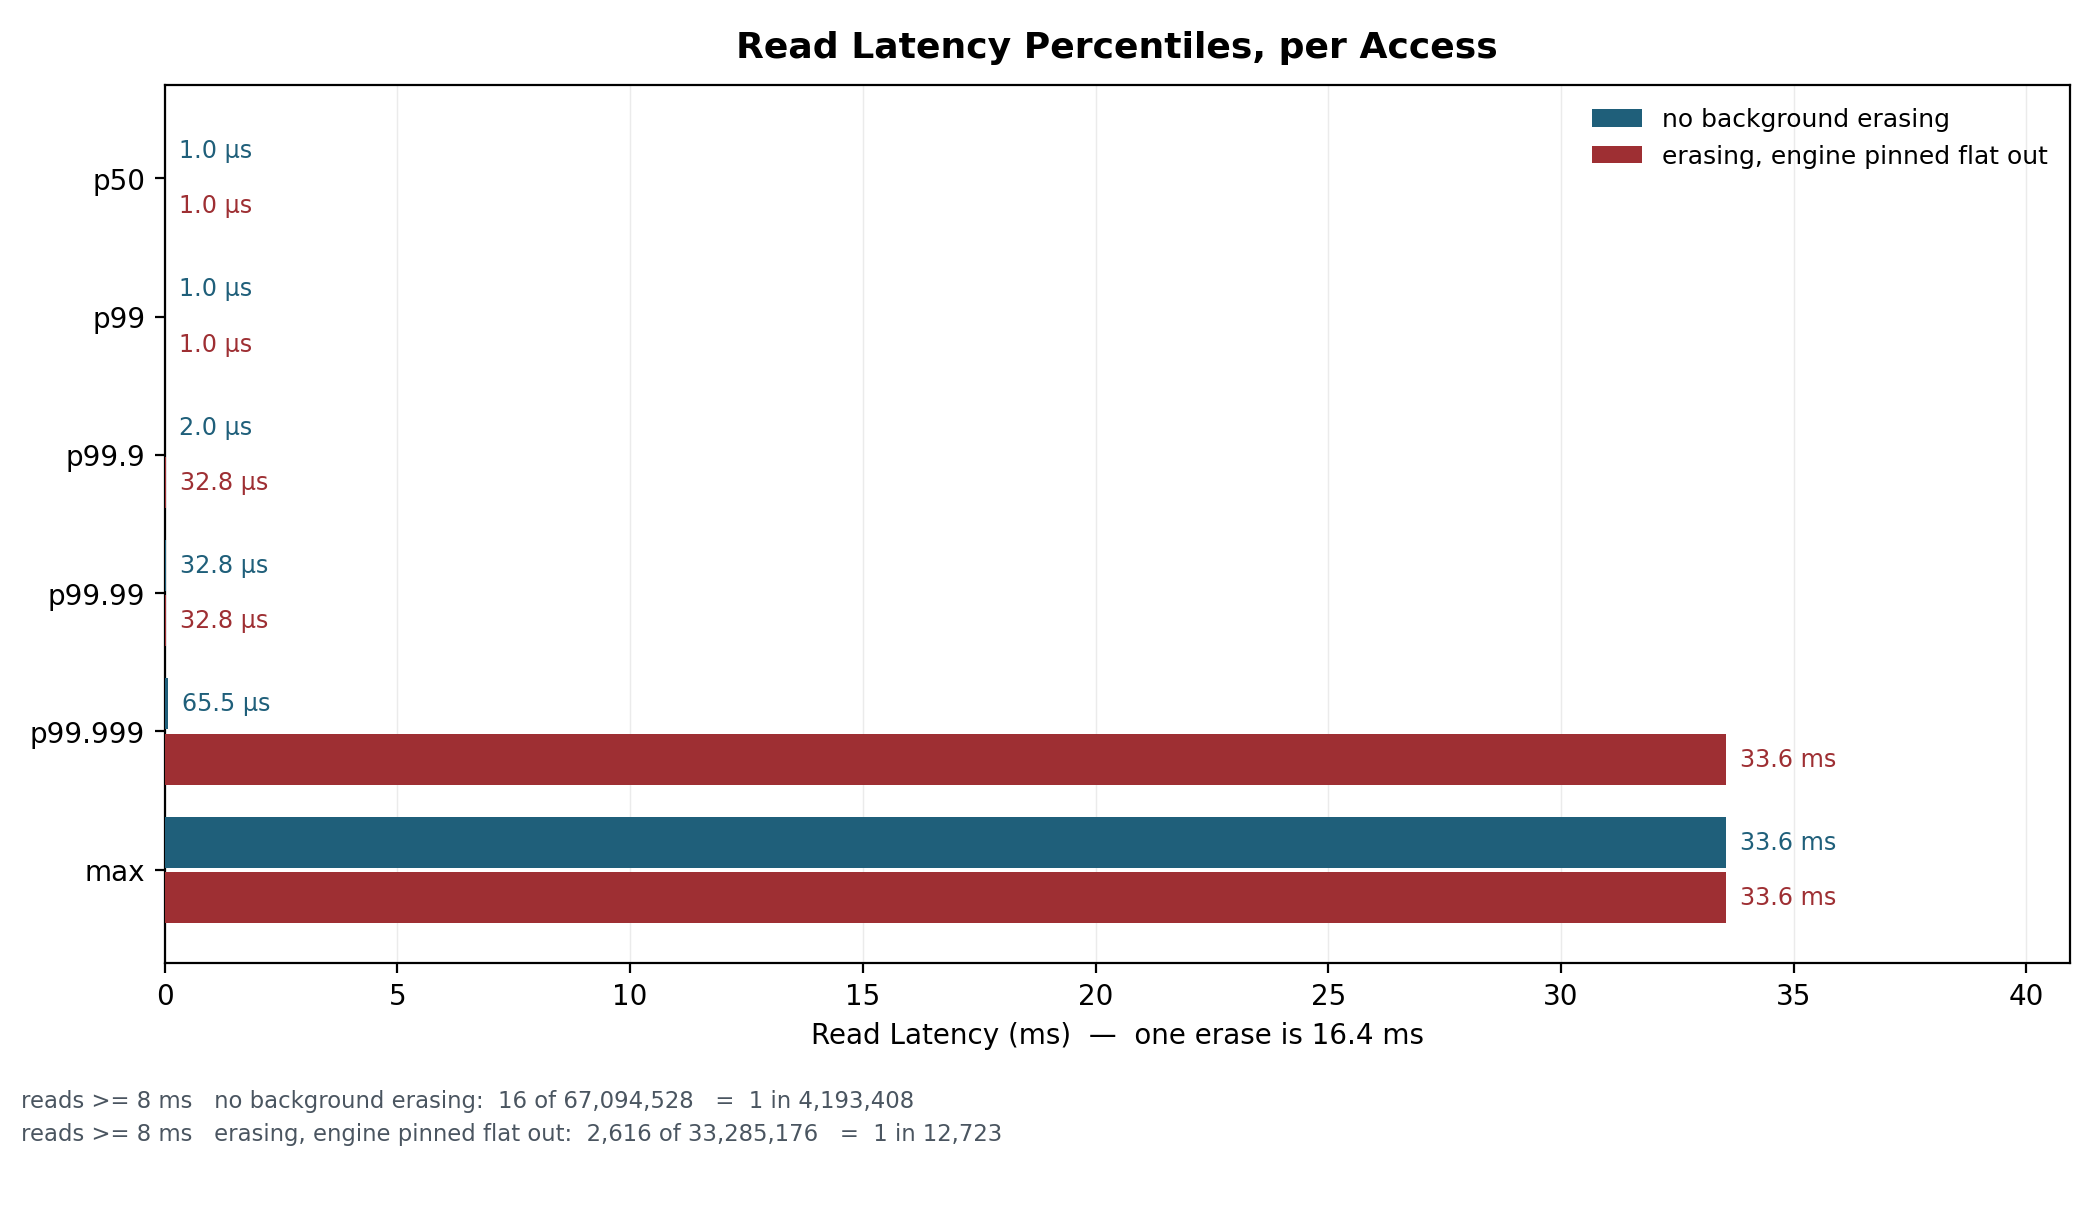
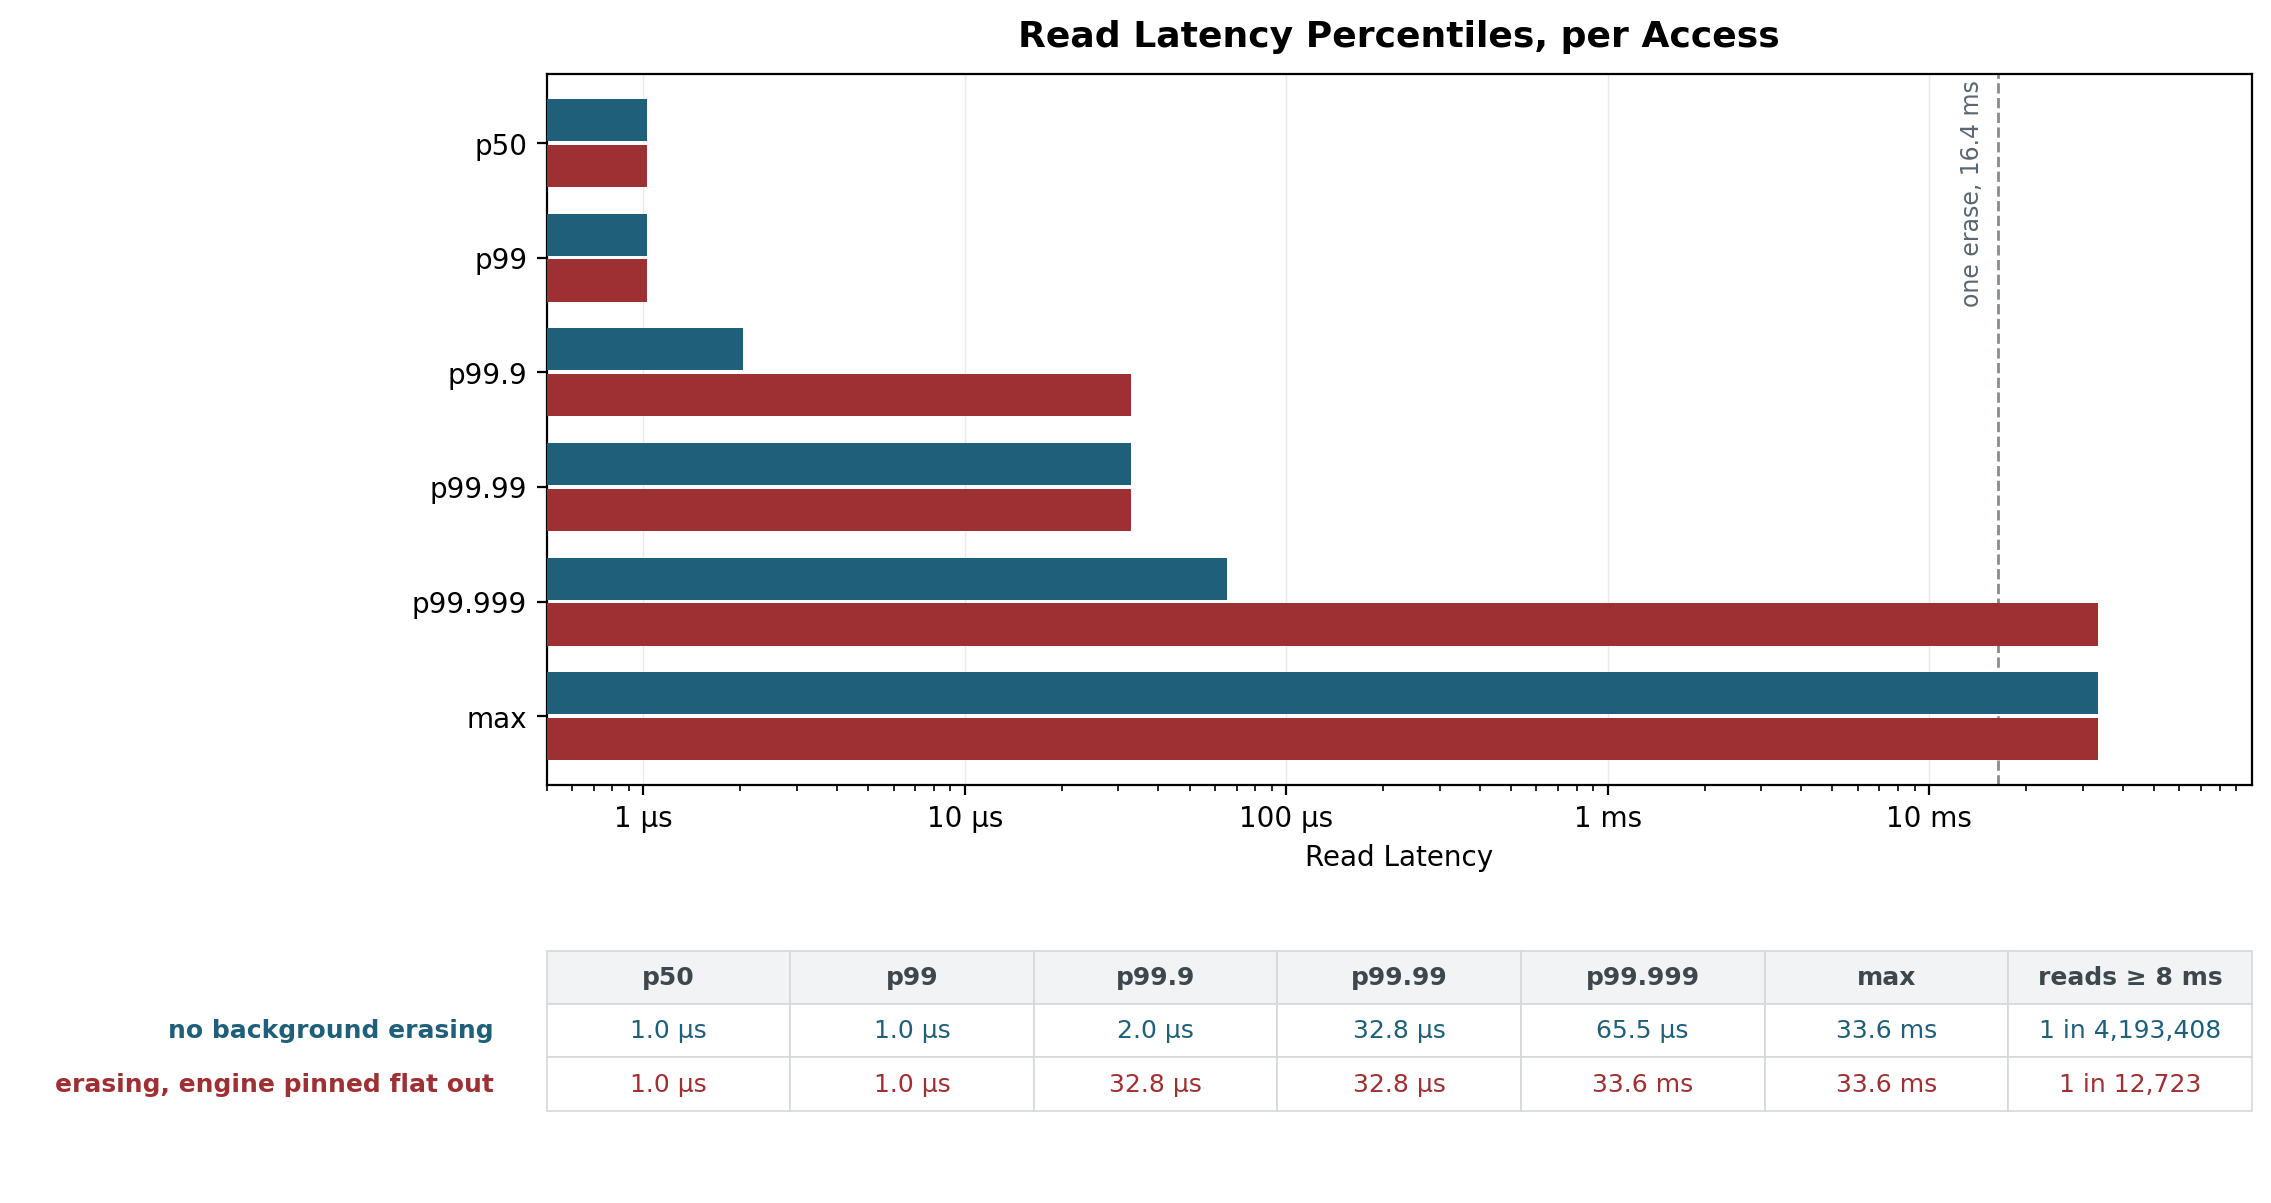
fig9: log x, and a table for the digits
Linear was honest and spent 99% of its width on the tail, so everything below
p99.999 was a sliver against the axis. Log x fits 1 us and 34 ms in one
picture. Ticks are labelled in human units (1 us / 10 us / 100 us / 1 ms /
10 ms) rather than decades of milliseconds, and 16.4 ms is drawn as a
reference so "does a read wait out a whole erase" can be read off directly.

The table underneath carries the numbers so nothing has to be traced off a
log axis, and its last column is the one that actually separates the
conditions -- 1 in 4,193,408 against 1 in 12,723 reads at 8 ms or worse. The
maxima are equal and the p99.99s are equal; frequency is the difference.

Row labels are colour-coded, so the legend went: it was redundant and it
landed on the max bars.

diff --git a/scripts/plot_selftest.py b/scripts/plot_selftest.py
@@ -544,36 +544,60 @@ if r:
     if have:
         QS = [(0.50, "p50"), (0.99, "p99"), (0.999, "p99.9"),
               (0.9999, "p99.99"), (0.99999, "p99.999"), (1.0, "max")]
-        fig, ax = plt.subplots(figsize=(10.5, 5.4))
+        # Same bars, log x. Linear was honest but spent 99% of its width on
+        # the tail, so every percentile below p99.999 was a sliver against the
+        # axis. Log gives 1 us and 34 ms room on the same picture; the table
+        # carries the digits so nothing has to be traced off the axis.
+        fig, (ax, axt) = plt.subplots(
+            2, 1, figsize=(11, 7.2), gridspec_kw=dict(height_ratios=[3, 1], hspace=0.34))
+        X0 = 5e-4                                        # ms, i.e. 0.5 us
+        top = max(pct(c, 1.0) for c, _, _ in have) / 1e6 * 3
+        ax.set_xscale("log"); ax.set_xlim(X0, top)
         nb = len(have); h = 0.8 / nb
         for k, (cond, colour, label) in enumerate(have):
-            vals = [pct(cond, q) / 1e6 for q, _ in QS]          # ms
+            vals = [pct(cond, q) / 1e6 for q, _ in QS]
             ys = [len(QS) - 1 - j + (nb - 1 - k) * h - (nb - 1) * h / 2
                   for j in range(len(QS))]
-            ax.barh(ys, vals, height=h * 0.92, color=colour, label=label, zorder=3)
-            for y, v, (q, _) in zip(ys, vals, QS):
-                ax.annotate(fmt(pct(cond, q)), (v, y), xytext=(5, 0),
-                            textcoords="offset points", va="center", ha="left",
-                            fontsize=8.6, color=colour, zorder=4)
+            # left=X0 explicitly: a bar from 0 has no left edge on a log axis.
+            ax.barh(ys, [v - X0 for v in vals], left=X0, height=h * 0.92,
+                    color=colour, label=label, zorder=3)
+        ax.axvline(16.4, color=C_GRID, lw=1, ls="--", zorder=2)
+        ax.annotate("one erase, 16.4 ms", (16.4, len(QS) - 0.45),
+                    xytext=(-5, 0), textcoords="offset points",
+                    ha="right", va="top", fontsize=8.5, color="#5b6670", rotation=90)
         ax.set_yticks(range(len(QS)))
         ax.set_yticklabels([n for _, n in QS][::-1], fontsize=10)
-        ax.set_xlim(0, max(pct(c, 1.0) for c, _, _ in have) / 1e6 * 1.22)
-        frame(ax, "Read Latency Percentiles, per Access",
-              "Read Latency (ms)  \u2014  one erase is 16.4 ms", "")
+        ax.set_xticks([1e-3, 1e-2, 1e-1, 1, 10])
+        ax.set_xticklabels(["1 \u00b5s", "10 \u00b5s", "100 \u00b5s", "1 ms", "10 ms"])
+        ax.set_ylim(-0.6, len(QS) - 0.4)
+        frame(ax, "Read Latency Percentiles, per Access", "Read Latency", "")
         ax.grid(axis="y", visible=False)
-        ax.legend(fontsize=9, frameon=False, loc="upper right")
+        # No legend: the table's row labels are colour-coded and carry the
+        # same information, and a legend box lands on the max bars.
 
-        # The max is the same either side -- 12 reads of 67 million land there
-        # with the engine OFF, which is the OS, not the flash. What separates
-        # the conditions is how OFTEN, so state that rather than leaving the
-        # equal maxima to imply the tails are equal.
-        lines = []
-        for cond, _, label in have:
+        # The digits, so no one has to read them off a log axis.
+        axt.axis("off")
+        cols = [n for _, n in QS] + ["reads \u2265 8 ms"]
+        cells, rowlab, rowcol = [], [], []
+        for cond, colour, label in have:
             c8, n = slower_than(cond, 8_000_000)
-            lines.append(f"reads >= 8 ms   {label}:  {c8:,} of {n:,}"
-                         + (f"   =  1 in {n//c8:,}" if c8 else "   =  none"))
-        figure_note(fig, lines, size=8.2)
-        fig.savefig(f"{OUT}/fig9-latency-tail.png", dpi=200)
+            cells.append([fmt(pct(cond, q)) for q, _ in QS]
+                         + [f"1 in {n//c8:,}" if c8 else "none"])
+            rowlab.append(label); rowcol.append(colour)
+        tb = axt.table(cellText=cells, colLabels=cols, rowLabels=rowlab,
+                       cellLoc="center", rowLoc="right", loc="upper center")
+        tb.auto_set_font_size(False); tb.set_fontsize(9); tb.scale(1, 1.6)
+        for (row, col), cell in tb.get_celld().items():
+            cell.set_edgecolor("#D5D8DA"); cell.set_linewidth(.6)
+            if row == 0:
+                cell.set_text_props(weight="semibold", color="#3d474e")
+                cell.set_facecolor("#F2F3F4")
+            elif col == -1:
+                cell.set_text_props(color=rowcol[row - 1], weight="semibold")
+                cell.set_facecolor("none"); cell.set_edgecolor("none")
+            else:
+                cell.set_text_props(color=rowcol[row - 1])
+        fig.savefig(f"{OUT}/fig9-latency-tail.png", dpi=200, bbox_inches="tight")
         made.append("fig9-latency-tail")
 
         print("\n  per-read latency")
